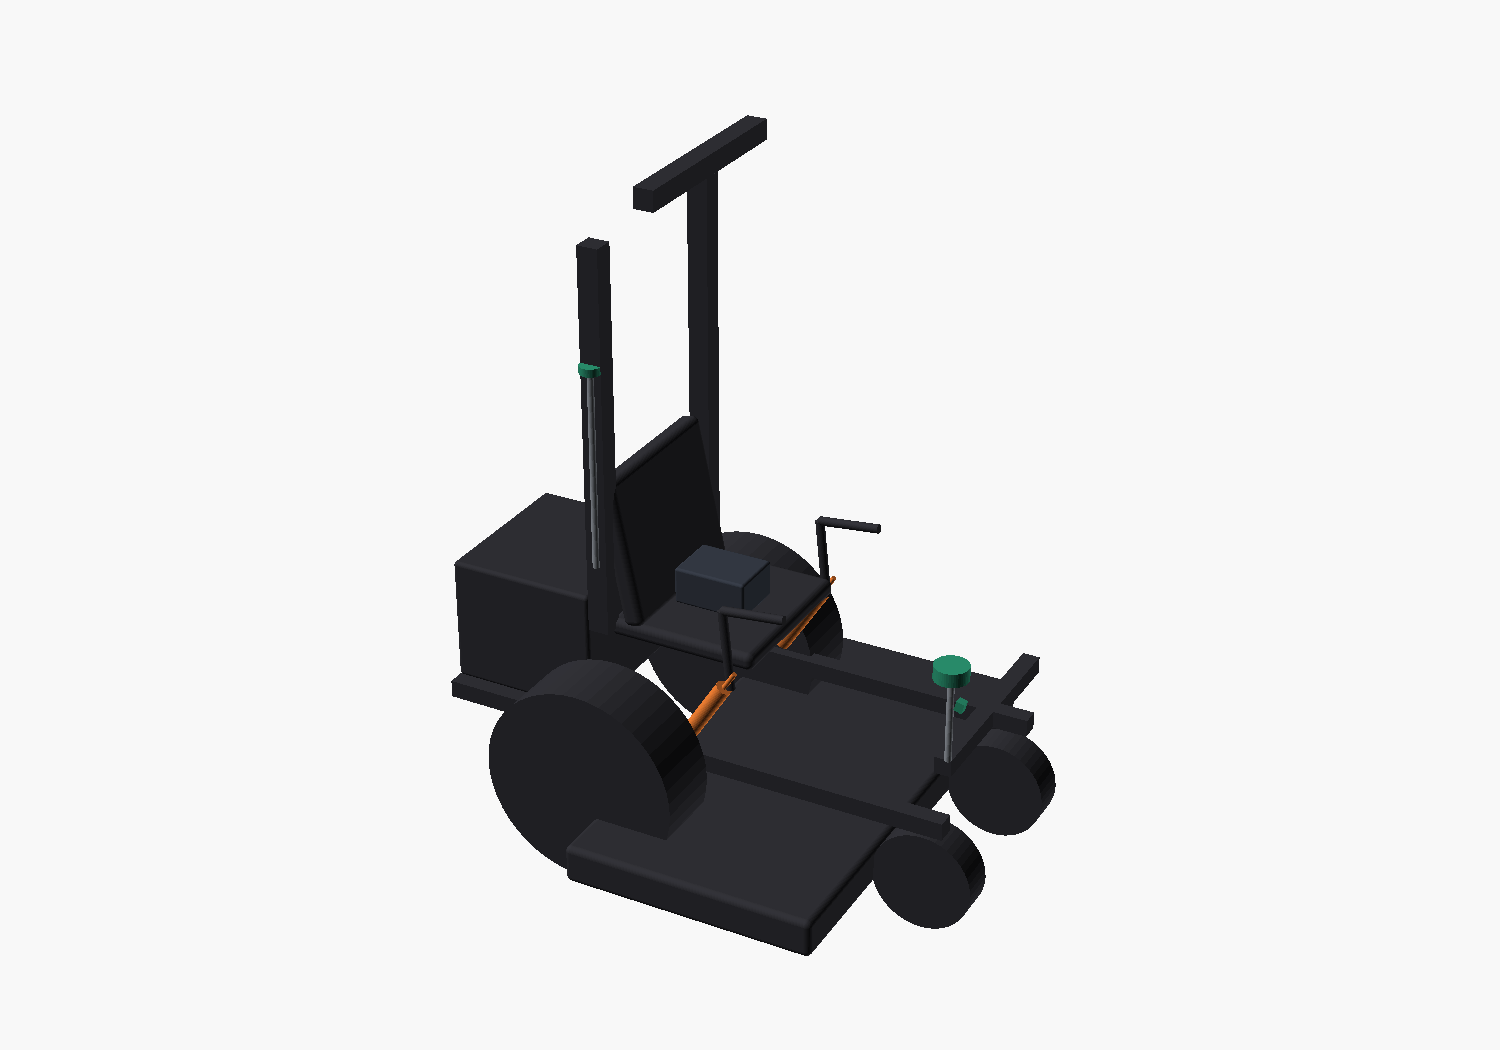
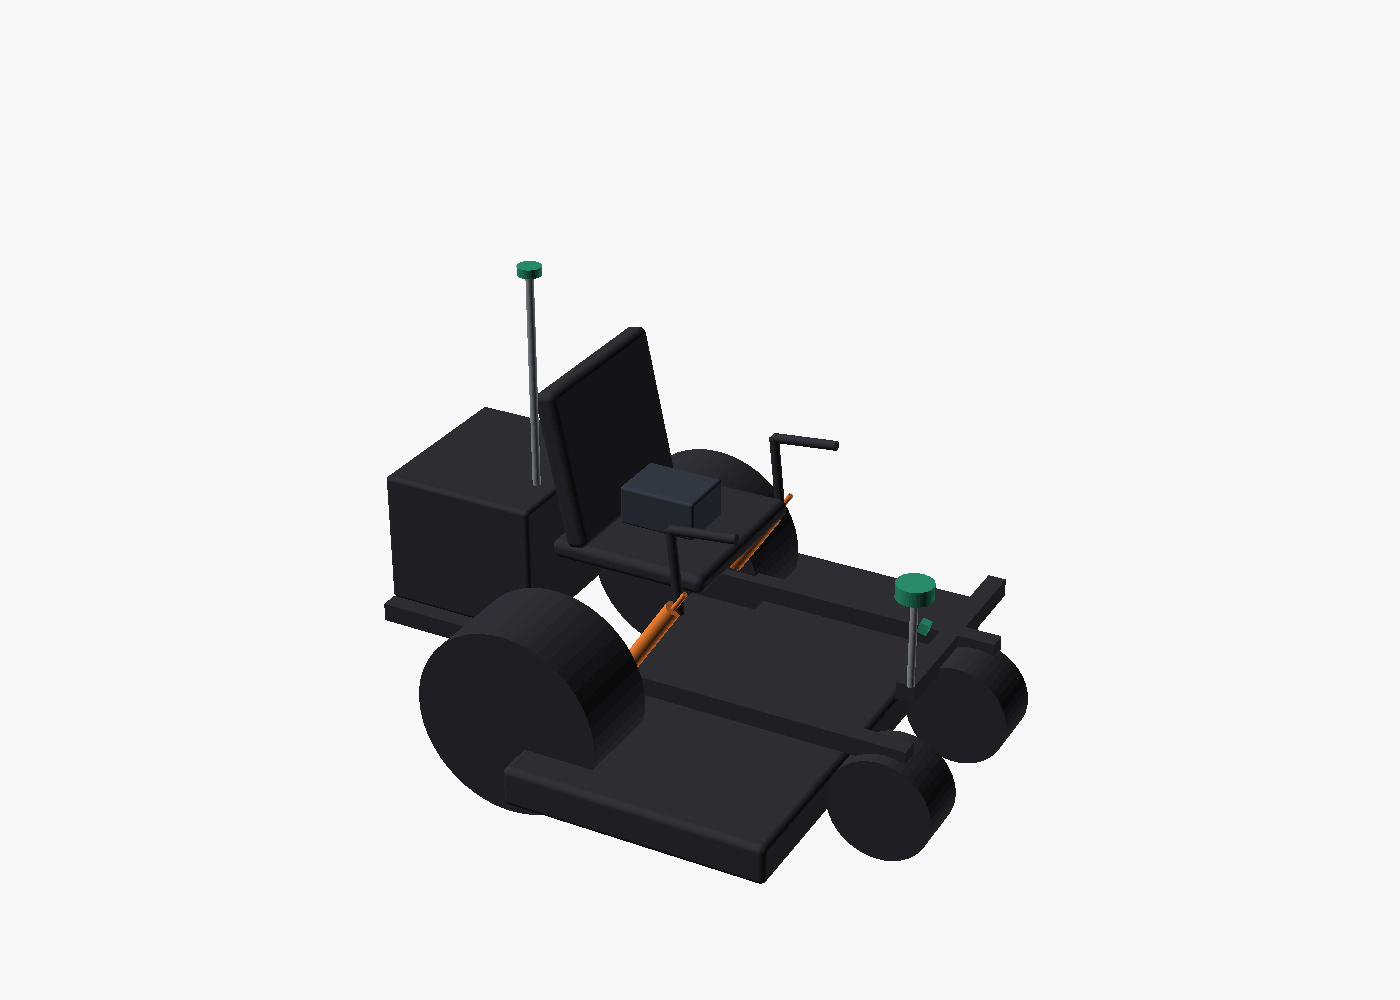
Confirm machine = Gravely ZT X 52; verify + fold specs everywhere
- ZT X 52 verified: ELECTRIC WARNER PTO (relay design correct ✓), 23hp FR691V, EZT,
  rear 20x10-8, front 11x6-5, 695lb, L1892/W1412/H1168, NO factory ROPS
- params.scad SECTION1, mower.scad (real tire dims + M_HAS_ROPS=false), gps_mast.scad note,
  docs/BUILD.md, cart/research/gravely-specs.md all updated
- KEY change: no ROPS -> GPS mast mounts to seat-frame/fabricated square post, not a roll bar
Date: 2026-06-26

Changed region(s): [[0.2764, 0.093, 0.7371, 0.93]]

diff --git a/cart/research/gravely-specs.md b/cart/research/gravely-specs.md
@@ -1,5 +1,26 @@
 # Gravely 52" Seated Zero-Turn — Real Published Specs (for CAD retrofit)
 
+## ✅ MODEL CONFIRMED BY OWNER (2026-06-26): Gravely **ZT X 52** (residential)
+Verified from allmachines.com / Gravely / dealer spec pages — these REPLACE the earlier ZT XL/HD nominals:
+| Spec | ZT X 52 value | Retrofit impact |
+|------|---------------|-----------------|
+| **PTO / blade clutch** | **ELECTRIC WARNER** (12 V) | ✅ relay-switched PTO design is CORRECT |
+| Engine | Kawasaki **FR691V**, 23 hp, 726 cc | throttle servo only |
+| Transaxles | Hydro-Gear **EZT** (serviceable) | return-to-neutral sprung → stout actuator (169 lbf ample) |
+| Forward speed | 7 mph (3.1 m/s) | nav speed cap |
+| Deck | 52″ = 1321 mm, 11-ga fabricated, 3 spindles | ✅ matches |
+| Rear tires | **20×10-8** (508 mm dia, 254 wide) | mower mock updated (was 22″) |
+| Front casters | **11×6-5** (279 mm dia, 152 wide) | mower mock updated |
+| Weight | 695 lb | (lighter than ZT HD) |
+| Overall | L 74.5″/1892 · W 55.6″/1412 (no chute) · H 46″/1168 | — |
+| **ROPS** | **NONE (no factory roll bar)** | ⚠️ GPS mast mounts to SEAT FRAME / fabricated post, not a ROPS clamp |
+| Lap bars | round tubular steel; OD **unpublished** | MIC the OD before cutting clamps |
+| Serial plate | ZT X = **915xxx / 918011**-class (under seat) | confirm exact unit |
+
+Sources: allmachines.com/mowers/gravely-zt-x-52-kawasaki · tkpowerequipment.com (918011) · aeoutdoorpower.com (915257).
+
+---
+
 Research date: 2026-06-26. Purpose: replace nominal CAD parameters with published
 manufacturer/dealer numbers for the owner's "Gravely 52 inch" twin-lap-bar seated ZT.
 

diff --git a/docs/BUILD.md b/docs/BUILD.md
@@ -1,6 +1,9 @@
 # Autonomous Zero-Turn Retrofit — Build & Safety Spec
 
-**Reference machine:** Gravely ZT 52" (seated ZTR, twin lap bars)
+**Machine (confirmed):** Gravely **ZT X 52** (residential seated ZTR, twin lap bars) — 23 hp Kawasaki FR691V,
+**electric Warner PTO clutch** (12 V, relay-switched ✓), Hydro-Gear EZT transaxles, 11-ga 52″ fabricated deck,
+695 lb, **no factory ROPS**. → The PTO relay design is correct for this machine; the GPS mast mounts to the
+**seat-frame upright or a fabricated post** (not a roll-bar), since the ZT X has no ROPS.
 **Goal:** a seat-mountable retrofit that makes a gas ZTR drive itself, with GPS + LiDAR + camera + AI, trainable by driving it once, reproducible on any zero-turn by re-measuring a handful of dimensions.
 **Status:** design + CAD + cart. Not yet built. Read the Safety chapter before powering anything.
 